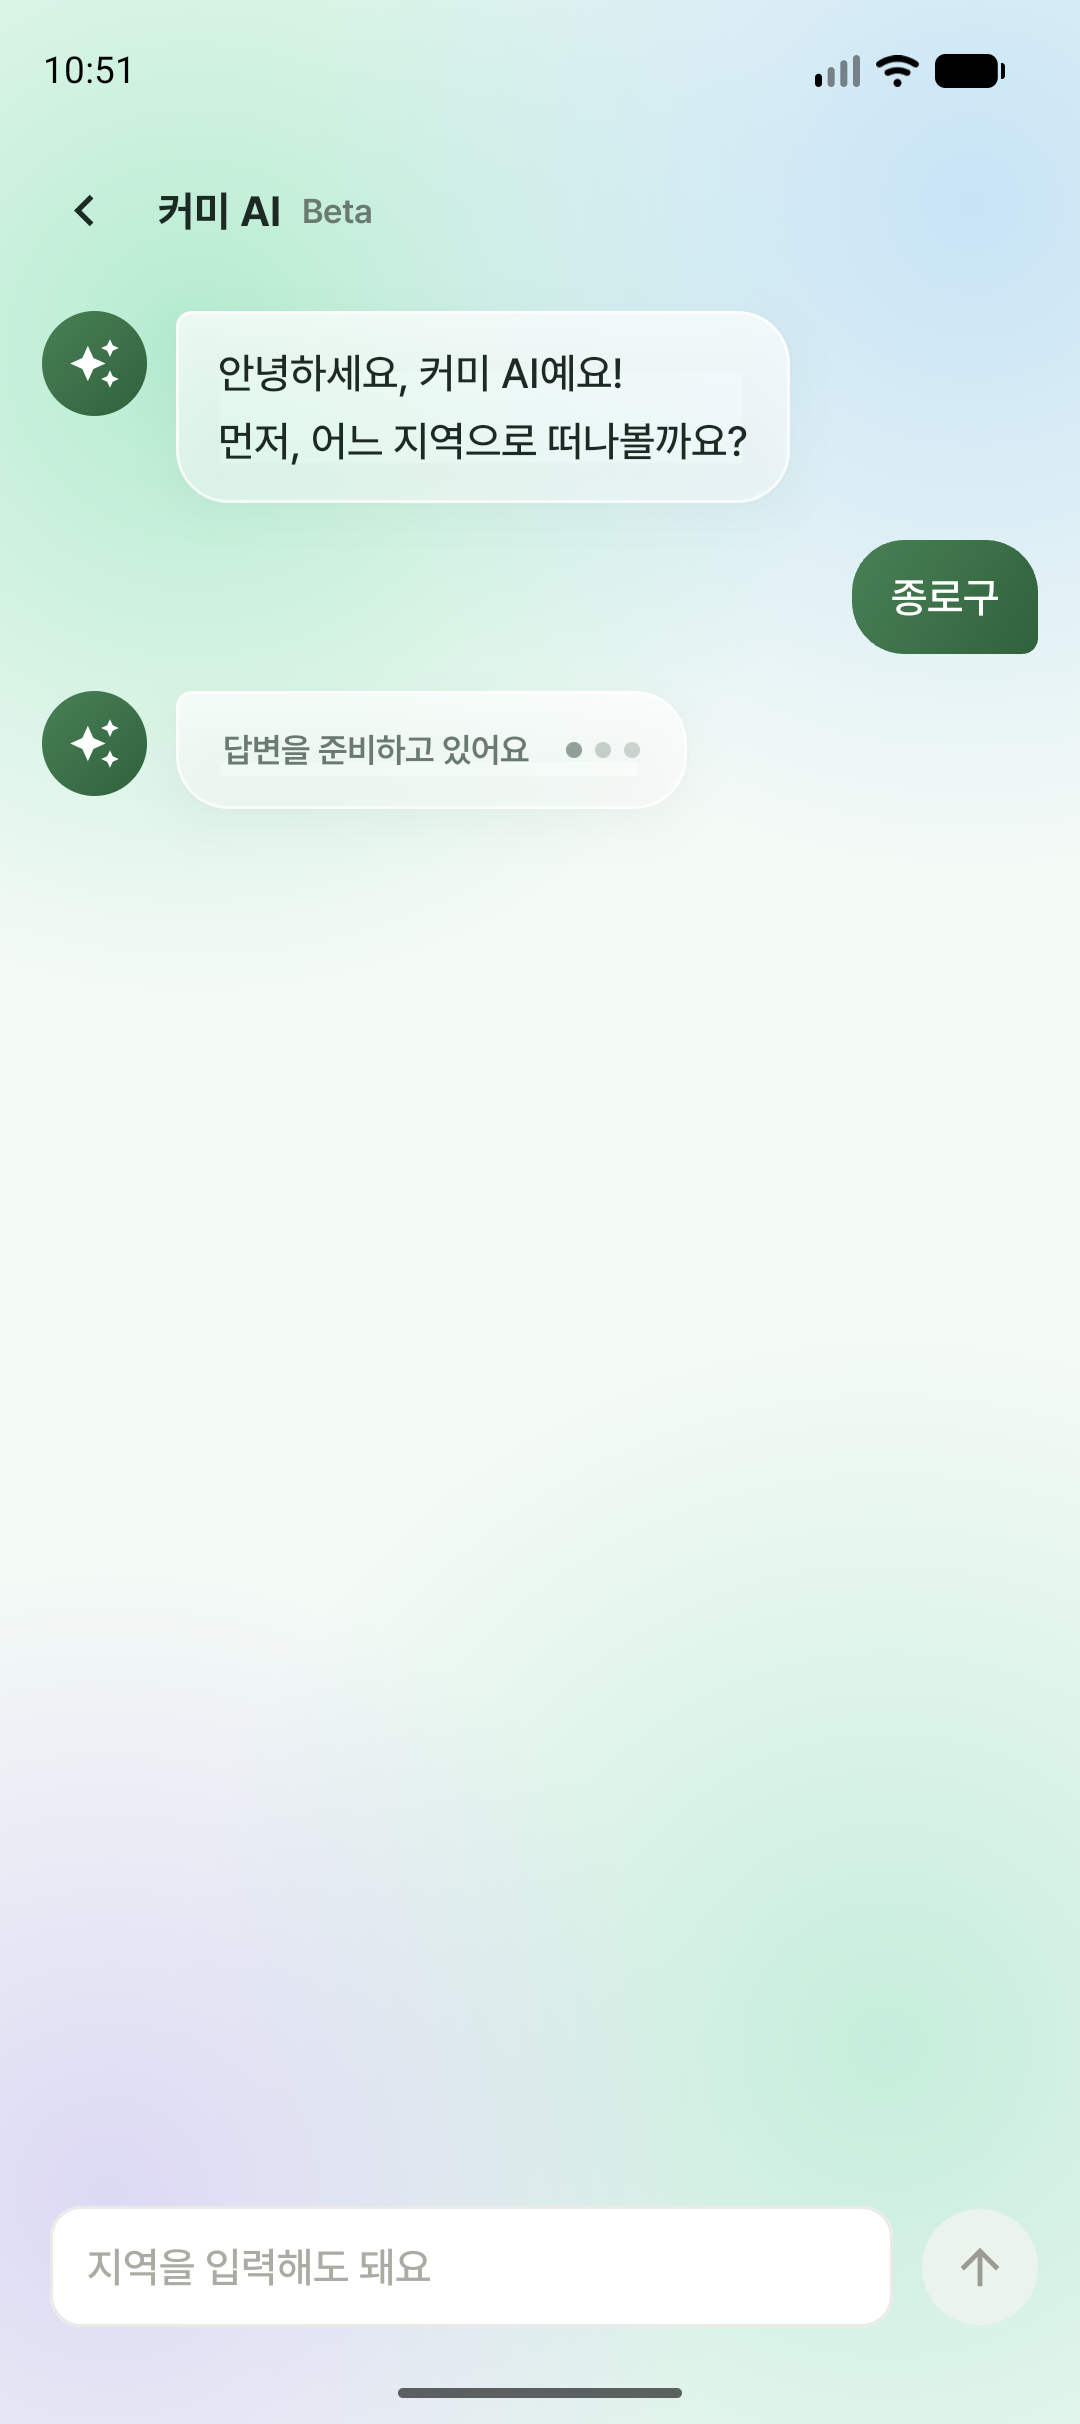
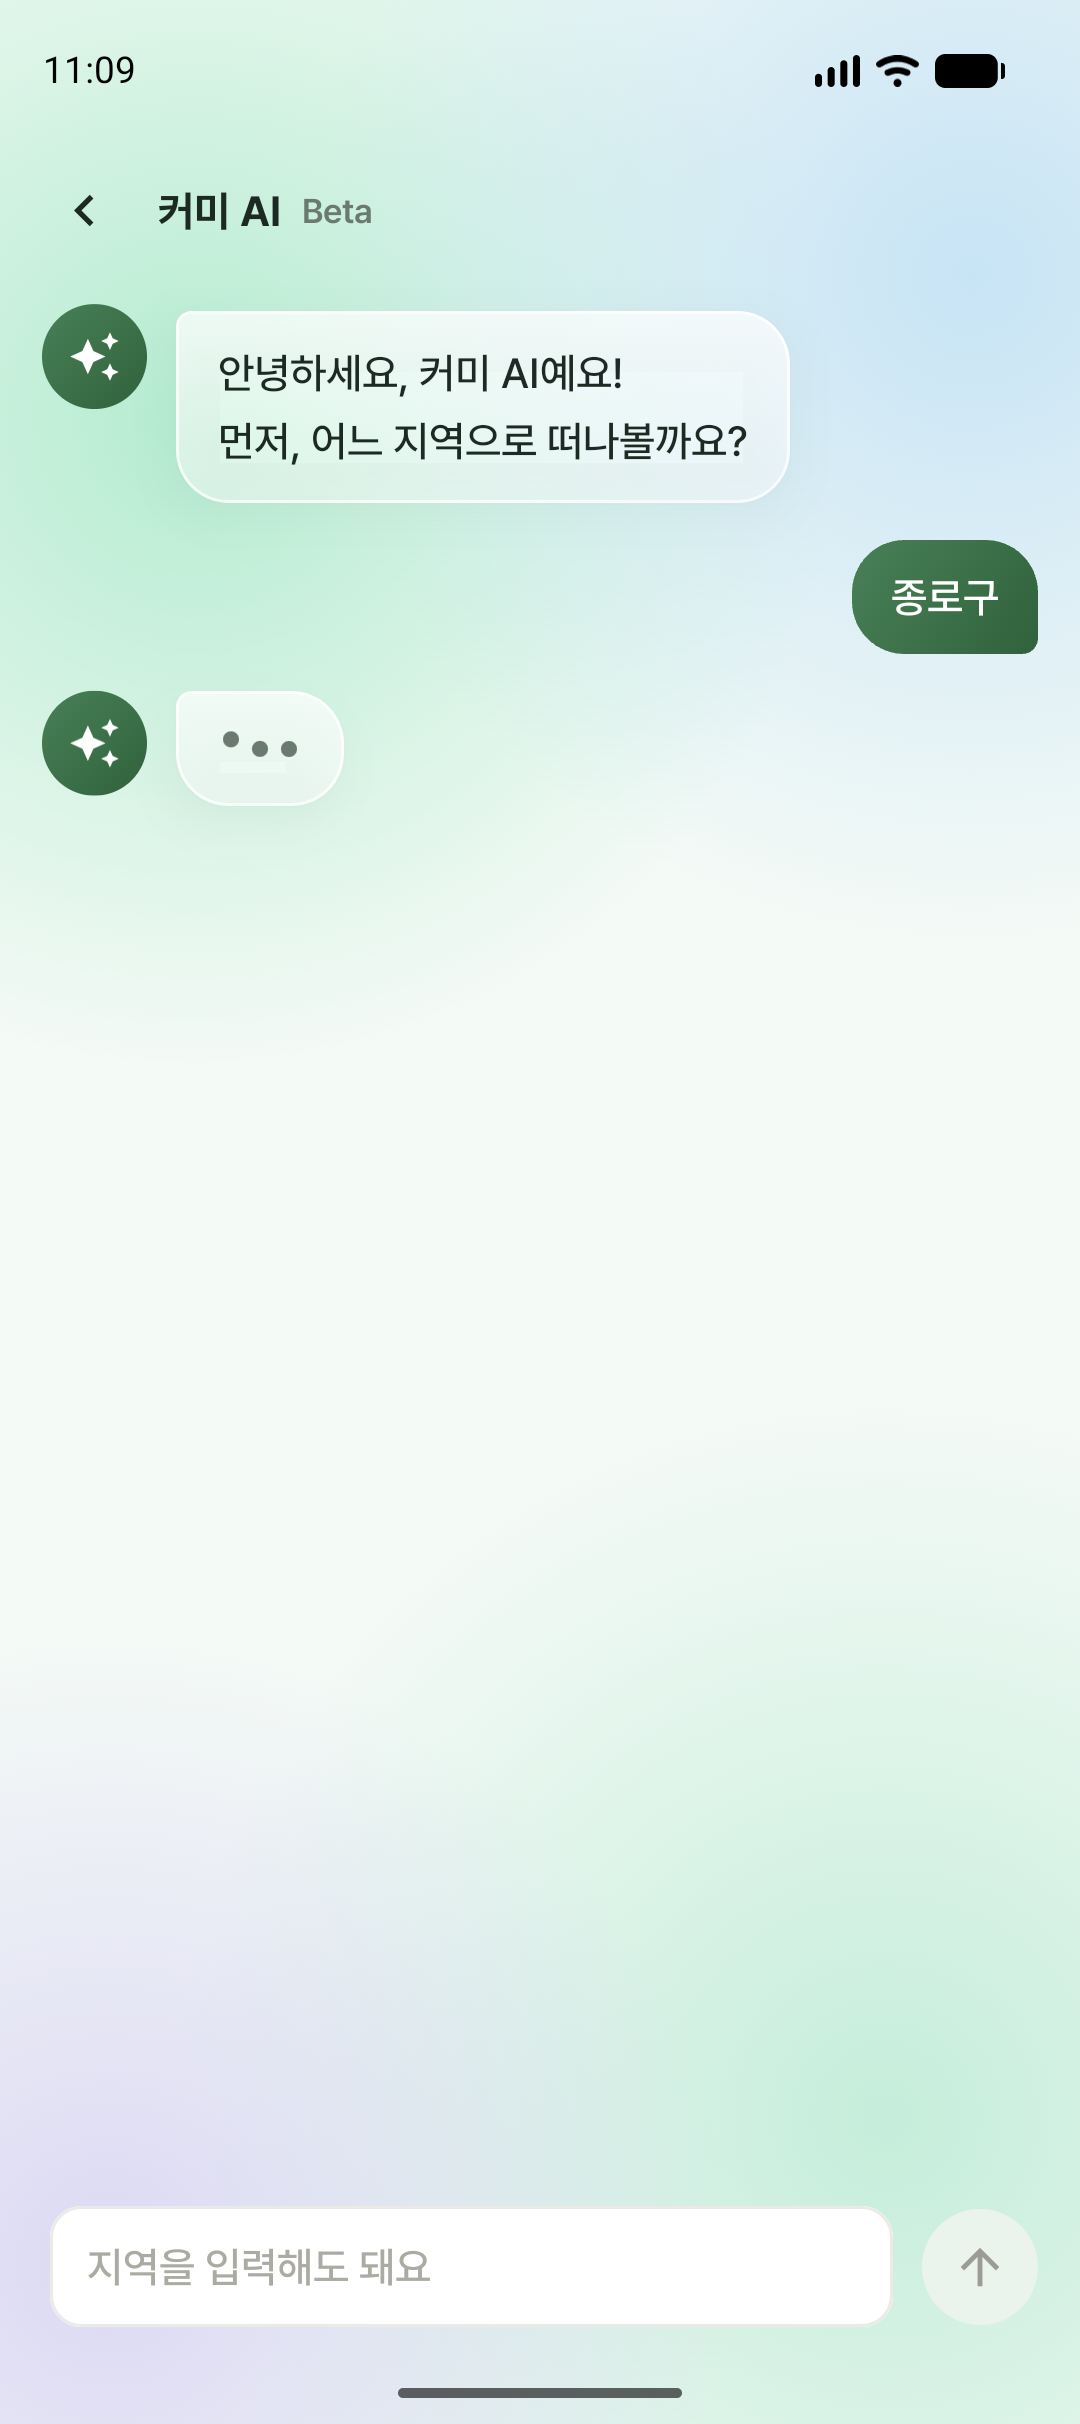
fix(ai-chat): 로딩 점 물결과 프로필 부유 모션 적용

diff --git a/main/presentation/src/main/java/com/chillsam/courmy/main/presentation/aichat/AiCourseChatPage.kt b/main/presentation/src/main/java/com/chillsam/courmy/main/presentation/aichat/AiCourseChatPage.kt
@@ -7,8 +7,10 @@ import androidx.activity.compose.rememberLauncherForActivityResult
 import androidx.activity.result.contract.ActivityResultContracts
 import androidx.compose.animation.core.FastOutSlowInEasing
 import androidx.compose.animation.core.RepeatMode
+import androidx.compose.animation.core.StartOffset
 import androidx.compose.animation.core.animateFloat
 import androidx.compose.animation.core.infiniteRepeatable
+import androidx.compose.animation.core.keyframes
 import androidx.compose.animation.core.rememberInfiniteTransition
 import androidx.compose.animation.core.tween
 import androidx.compose.foundation.background
@@ -46,17 +48,19 @@ import androidx.compose.runtime.remember
 import androidx.compose.runtime.setValue
 import androidx.compose.ui.Alignment
 import androidx.compose.ui.Modifier
-import androidx.compose.ui.draw.alpha
 import androidx.compose.ui.draw.clip
 import androidx.compose.ui.draw.drawBehind
 import androidx.compose.ui.draw.shadow
 import androidx.compose.ui.geometry.Offset
 import androidx.compose.ui.graphics.Brush
 import androidx.compose.ui.graphics.Shape
+import androidx.compose.ui.graphics.graphicsLayer
 import androidx.compose.ui.layout.ContentScale
 import androidx.compose.ui.platform.LocalContext
 import androidx.compose.ui.res.painterResource
 import androidx.compose.ui.semantics.Role
+import androidx.compose.ui.semantics.contentDescription
+import androidx.compose.ui.semantics.semantics
 import androidx.compose.ui.text.style.TextAlign
 import androidx.compose.ui.text.style.TextOverflow
 import androidx.compose.ui.unit.dp
@@ -341,8 +345,20 @@ private fun UserMessageRow(message: AiChatMessage) {
 
 @Composable
 private fun AiAvatar() {
+    val transition = rememberInfiniteTransition(label = "avatarFloat")
+    val offset by transition.animateFloat(
+        initialValue = 0f,
+        targetValue = -3f,
+        animationSpec = infiniteRepeatable(tween(1400, easing = FastOutSlowInEasing), RepeatMode.Reverse),
+        label = "avatarOffset",
+    )
     Box(
-        modifier = Modifier.size(AvatarSize).clip(CircleShape).background(AiChatPalette.accentGradient),
+        modifier =
+            Modifier
+                .size(AvatarSize)
+                .graphicsLayer { translationY = offset.dp.toPx() }
+                .clip(CircleShape)
+                .background(AiChatPalette.accentGradient),
         contentAlignment = Alignment.Center,
     ) {
         Icon(
@@ -492,15 +508,10 @@ private fun TypingRow() {
                     .padding(horizontal = 18.dp, vertical = 15.dp),
         ) {
             Row(
+                modifier = Modifier.height(14.dp).semantics { contentDescription = "응답 준비 중" },
                 horizontalArrangement = Arrangement.spacedBy(5.dp),
                 verticalAlignment = Alignment.CenterVertically,
             ) {
-                DsText(
-                    text = "답변을 준비하고 있어요",
-                    style = DesignSystemThemeImpl.typeScale.textRegularXS,
-                    color = AiChatPalette.inkSoft,
-                )
-                Spacer(Modifier.width(4.dp))
                 repeat(3) { index -> TypingDot(index) }
             }
         }
@@ -510,17 +521,27 @@ private fun TypingRow() {
 @Composable
 private fun TypingDot(index: Int) {
     val transition = rememberInfiniteTransition(label = "typing")
-    val alpha by transition.animateFloat(
-        initialValue = 0.3f,
-        targetValue = 1f,
-        animationSpec = infiniteRepeatable(tween(600, delayMillis = index * 150), RepeatMode.Reverse),
+    val offset by transition.animateFloat(
+        initialValue = 0f,
+        targetValue = 0f,
+        animationSpec =
+            infiniteRepeatable(
+                animation =
+                    keyframes {
+                        durationMillis = 900
+                        0f at 0 using FastOutSlowInEasing
+                        -4f at 250 using FastOutSlowInEasing
+                        0f at 500
+                    },
+                initialStartOffset = StartOffset(index * 150),
+            ),
         label = "dot$index",
     )
     Box(
         modifier =
             Modifier
                 .size(6.dp)
-                .alpha(alpha)
+                .graphicsLayer { translationY = offset.dp.toPx() }
                 .clip(CircleShape)
                 .background(AiChatPalette.inkSoft),
     )

diff --git a/docs/ui/2026-11-11-ai-chat/README.md b/docs/ui/2026-11-11-ai-chat/README.md
@@ -8,9 +8,9 @@
 | 02-region.png | 현재 구 및 주변 구 선택 | 2000000015 / 1.3.999 | 실제 홈에서 진입, 종로구·중구·서대문구. 이후 지역 UI 변경 없음 |
 | 03-result-preview.png | 최종 결과 카드 3개 | 2000000021 / 1.3.999 | debug 예시 응답. 이미지 URL 없는 플레이스홀더, 상단 정렬·2줄 말줄임·저장 좋아요/화살표 없음·입력 영역 없음 |
 | 04-restart-preview.png | 처음부터 후 REGION | 2000000021 / 1.3.999 | debug 예시 대화 초기화 후 입력창·전송 버튼 복원 |
-| 05-thinking-preview.png | 답변 준비 표시 | 2000000023 / 1.3.999 | debug 예시 응답 전 준비 문구·점 애니메이션 |
+| 05-thinking-preview.png | 답변 준비 표시 | 2000000024 / 1.3.999 | debug 예시 응답 전 문구 없는 물결 점·프로필 부유 애니메이션 |
 
-최신 검증 빌드는 2000000023 / 1.3.999다. 홈은 최신 23 빌드로 재촬영했으며 지역은 해당 UI가 확정된 당시 빌드의 원본이다. 최종 PR 준비 시 추가 촬영을 시도했으나 에뮬레이터가 다른 화면/상태로 전환되어 최신 빌드 전체 캡처 완료로 주장하지 않는다.
+최신 검증 빌드는 2000000024 / 1.3.999다. 홈은 최신 23 빌드로 재촬영했으며 지역은 해당 UI가 확정된 당시 빌드의 원본이다. 최종 PR 준비 시 추가 촬영을 시도했으나 에뮬레이터가 다른 화면/상태로 전환되어 최신 빌드 전체 캡처 완료로 주장하지 않는다.
 
 로그인 게이트·테마·장소·장소 후보·오류·빈 결과 화면의 최종 빌드 캡처는 미완료다. 실제 서버 대화 전체 왕복과 운영 장소 검색·Redis·버전 정책은 미검증이다. ViewModel fake repository 테스트는 상태 전이·중복 요청 방지·세션 초기화·오류 후 입력 복구 등을 검증하며 운영 성공을 보장하지 않는다.
 
@@ -40,8 +40,12 @@ RESULT에서는 메시지 입력창과 전송 버튼을 렌더하지 않는다. 
 
 ## 응답 전환 및 홈 CTA 최종
 
-성공 응답은 최소 900ms 동안 답변을 준비하고 있어요 + 점 3개를 표시한 뒤 적용한다. 서버 요청과 최소 시간은 동시에 진행하여 느린 응답에 추가 지연은 없으며 오류는 즉시 안내한다. 초기화 시 대기 중 응답을 취소한다.
+성공 응답은 최소 900ms 동안 문구 없이 물결치는 점 3개를 표시한 뒤 적용한다. 서버 요청과 최소 시간은 동시에 진행하여 느린 응답에 추가 지연은 없으며 오류는 즉시 안내한다. 초기화 시 대기 중 응답을 취소한다.
 
 홈 CTA의 흰 알약과 원형 화살표를 제거했다. 우측 textStrongS/contentAccent 텍스트와 20dp 대각선 화살표(기존 위 화살표를 45도 회전), 간격 8dp·상단 패딩 4dp. 카드 전체 클릭 유지.
 
 후속 검증: 모듈 155개 테스트·APK·Lint·포맷 통과. 빠른 응답 899/900ms 경계·느린 응답 추가 지연 없음·오류 즉시 안내·대기 중 초기화 회귀 테스트 포함.
+
+## 로딩·프로필 모션 수정
+
+로딩 문구를 제거했다. 6dp 점 3개가 150ms 간격으로 4dp 위로 올라갔다 돌아오며 900ms 주기로 반복한다. 접근성 설명은 `응답 준비 중`이다. AI 프로필은 3dp 위로 이동하고 돌아오는 2800ms 주기의 부유 모션을 화면에 표시되는 동안 반복한다. graphicsLayer로 위치만 바꿔 주변 레이아웃 높이는 유지한다.
